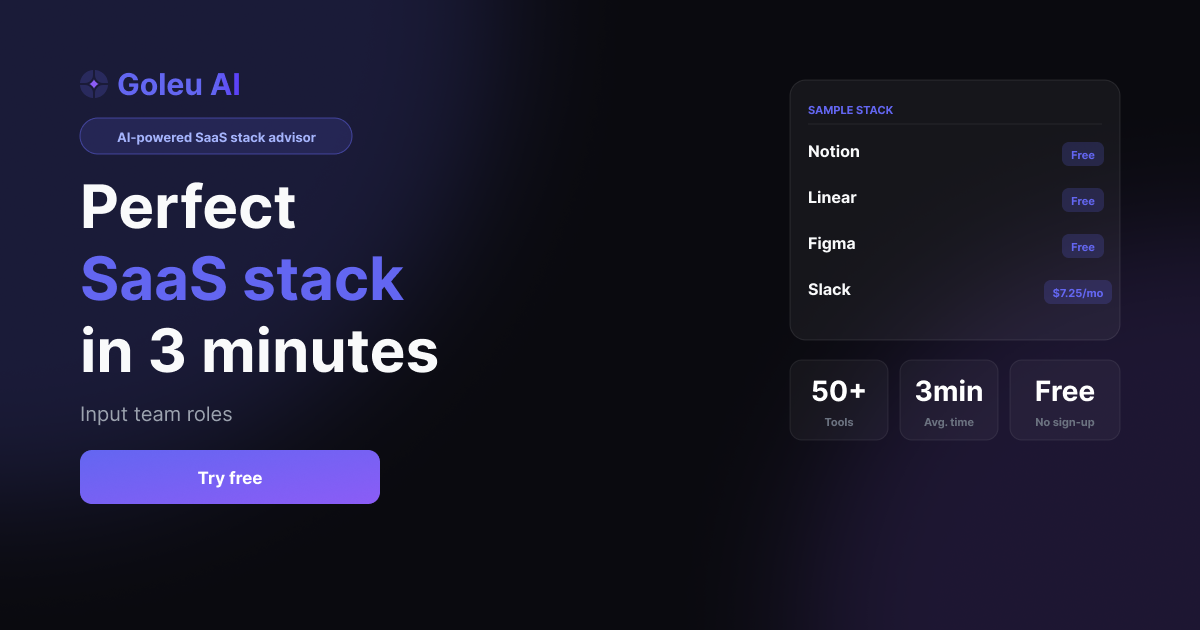
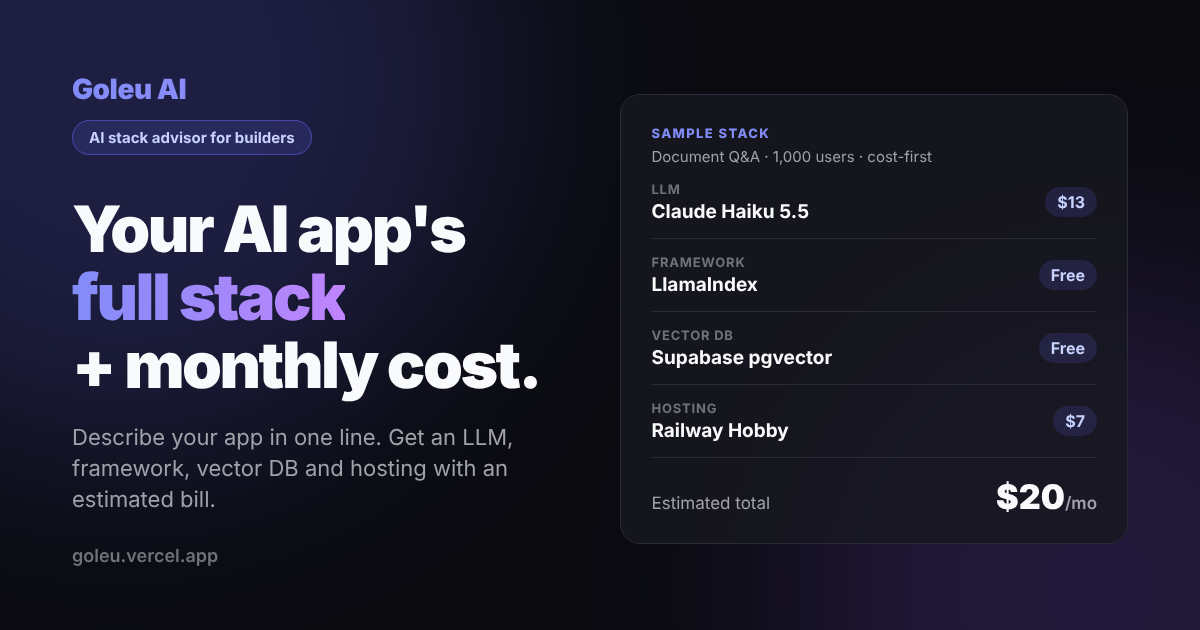
feat: LLM 비용 계산기 캐싱·결론·공유 링크, 페이지별 미리보기 이미지
- 모델별 캐시 읽기/쓰기 단가 추가, RAG·에이전트에 캐싱 입력 2개(반복 앞부분, 만료 비율)
- 하루 요청 수 아래 월 환산 문구 표시
- 표 위 결론 한 줄(전체·등급별 최저가)과 /build 바로가기, 조건 링크 복사
- 계산기 조건을 URL에 저장·복원, /build는 ?desc=&mau= 로 자동 추천
- Seo에 페이지별 og:image 지원, 계산기 전용 이미지 추가, 기본 이미지를 AI 빌더 스택용으로 교체
- llms.txt에서 레거시 팀 SaaS 퀴즈 제거

Claude-Session: https://claude.ai/code/session_015YZcKSeK5bbq6dktA5TLiD

diff --git a/golue_app/src/LlmCost.jsx b/golue_app/src/LlmCost.jsx
@@ -1,8 +1,8 @@
 // LLM API 월 비용 계산기 (/llm-cost): 요청 수 × 토큰 → 모델별 월 비용. 가격은 src/lib/ai-stack.js 한 곳에서 가져온다.
-import { useMemo, useState } from "react";
+import { useEffect, useMemo, useState } from "react";
 import { Link } from "react-router-dom";
-import { InputNumber, Segmented, Table, Tag } from "antd";
-import { PRICES, USE_CASES, effectivePrice } from "./lib/ai-stack.js";
+import { Button, InputNumber, Segmented, Slider, Table, Tag } from "antd";
+import { PRICES, USE_CASES, effectivePrice, inputRate } from "./lib/ai-stack.js";
 import { useLanguage } from "./lib/LanguageContext";
 import { trackEvent } from "./lib/analytics";
 
@@ -13,7 +13,14 @@ const T = {
     preset: "용도 프리셋", perDay: "하루 요청 수", inTok: "요청당 입력 토큰", outTok: "요청당 출력 토큰",
     model: "모델", tier: "등급", price: "가격 (입력/출력, 1M 토큰)", monthly: "월 비용",
     tiers: { economy: "저가", balanced: "균형", premium: "고가" },
-    note: (d) => `가격 기준일 ${d} · 각 사의 공식 가격 페이지 기준(표준 요금, 캐시·배치 할인 미반영) · 한 달은 30일로 계산`,
+    monthlyReq: (n, d) => `= 월 ${n.toLocaleString()}건 · 예: 사용자 ${d.toLocaleString()}명이 하루 1번씩 쓰는 경우`,
+    verdict: (c, b, p) => `이 조건에서 가장 싼 선택은 ${c}예요. 균형 등급 최저가는 ${b}, 고가 등급 최저가는 ${p}예요.`,
+    perMonth: (v) => `월 ${v}`,
+    toBuild: "이 조건으로 전체 스택 보기 →", copy: "이 조건 링크 복사", copied: "복사했어요",
+    cacheTitle: "프롬프트 캐싱", prefix: "입력 중 매번 반복되는 앞부분 (시스템 프롬프트·이전 대화)", expiry: "캐시가 만료돼 다시 쓰는 비율 (요청 간격이 캐시 유지 시간보다 길 때)",
+    cacheNote: "기본값은 이 용도의 가정입니다. 캐시 쓰기는 Anthropic만 입력가의 1.25배, OpenAI·Google은 입력가로 계산합니다.", cached: "캐시",
+    spread: (x) => `지금 조건에서 가장 비싼 모델은 가장 싼 모델의 ${x}배`,
+    note: (d) => `가격 기준일 ${d} · 각 사의 공식 가격 페이지 기준 표준 요금 · Gemini 캐시 저장료·배치 할인 미반영 · 한 달은 30일로 계산`,
     tierNote: "등급은 같은 회사 안의 가격 순서이며 품질 평가가 아닙니다.",
     ctaTitle: "모델만 정하면 끝이 아닙니다",
     ctaDesc: "벡터DB·프레임워크·배포까지 포함한 전체 스택과 월 비용을 받아 보세요.",
@@ -25,7 +32,14 @@ const T = {
     preset: "Preset", perDay: "Requests per day", inTok: "Input tokens / request", outTok: "Output tokens / request",
     model: "Model", tier: "Tier", price: "Price (in/out per 1M tokens)", monthly: "Monthly cost",
     tiers: { economy: "Economy", balanced: "Balanced", premium: "Premium" },
-    note: (d) => `Prices as of ${d} · official list prices (no caching or batch discounts) · 30-day month`,
+    monthlyReq: (n, d) => `= ${n.toLocaleString()} requests/month · e.g. ${d.toLocaleString()} users, once a day each`,
+    verdict: (c, b, p) => `Cheapest at these settings: ${c}. Cheapest balanced-tier: ${b}. Cheapest premium-tier: ${p}.`,
+    perMonth: (v) => `${v}/mo`,
+    toBuild: "See the full stack for these settings →", copy: "Copy link to these settings", copied: "Copied",
+    cacheTitle: "Prompt caching", prefix: "Share of input repeated every request (system prompt, prior turns)", expiry: "Share re-written after cache expiry (gap between requests > cache lifetime)",
+    cacheNote: "Defaults are assumptions for this use case. Cache writes: Anthropic at 1.25x input, OpenAI and Google at the input price.", cached: "cached",
+    spread: (x) => `At these settings the most expensive model costs ${x}x the cheapest`,
+    note: (d) => `Prices as of ${d} · official standard list prices · Gemini cache storage and batch discounts not included · 30-day month`,
     tierNote: "Tiers reflect price order within each provider, not a quality rating.",
     ctaTitle: "Picking a model is only step one",
     ctaDesc: "Get the full stack — vector DB, framework, hosting — with a monthly cost.",
@@ -35,6 +49,22 @@ const T = {
 
 const TIER_COLOR = { economy: "green", balanced: "blue", premium: "purple" };
 const noteText = (n, ko) => (!n ? "" : typeof n === "string" ? n : n[ko ? "ko" : "en"]);
+// /build 로 넘길 때 쓰는 용도별 한 줄 설명 (ai-stack.js 의 classify 키워드에 맞춤)
+const BUILD_DESC = {
+  chat: { ko: "고객 상담 챗봇", en: "customer support chatbot" },
+  rag: { ko: "사내 문서 검색 챗봇", en: "search internal docs and answer questions" },
+  agent: { ko: "업무 자동화 에이전트", en: "workflow automation agent" },
+  extract: { ko: "영수증 데이터 추출", en: "extract data from receipts" },
+  generate: { ko: "마케팅 콘텐츠 생성", en: "generate marketing content" },
+};
+const MAU_OPTIONS = [100, 1000, 10000, 100000];
+// 월 요청 수 ÷ 1인당 월 요청 수 → /build 의 사용자 수 선택지 중 가장 가까운 값(로그 스케일)
+const nearestMau = (users) => MAU_OPTIONS.reduce((best, v) =>
+  Math.abs(Math.log10(Math.max(users, 1) / v)) < Math.abs(Math.log10(Math.max(users, 1) / best)) ? v : best);
+const intParam = (q, k, max) => {
+  const n = Number(q.get(k));
+  return q.has(k) && Number.isFinite(n) && n >= 0 && n <= max ? Math.round(n) : null;
+};
 const usd = (n) => `$${n.toLocaleString(undefined, { maximumFractionDigits: n < 10 ? 2 : 0 })}`;
 
 export default function LlmCost() {
@@ -45,11 +75,62 @@ export default function LlmCost() {
   const [perDay, setPerDay] = useState(1000);
   const [inTok, setInTok] = useState(USE_CASES.chat.inTok);
   const [outTok, setOutTok] = useState(USE_CASES.chat.outTok);
+  const [prefix, setPrefix] = useState(0);
+  const [expiry, setExpiry] = useState(0);
+  const cacheOn = Boolean(USE_CASES[preset].cache);
+  const [urlReady, setUrlReady] = useState(false);
+  const [copied, setCopied] = useState(false);
+
+  // 공유 링크(?p=&d=&i=&o=&c=&e=)로 들어오면 그 조건을 복원한다. 프리렌더 HTML과 어긋나지 않게 마운트 후에 읽는다
+  useEffect(() => {
+    const q = new URLSearchParams(window.location.search);
+    const p = q.get("p");
+    if (p && USE_CASES[p]) {
+      setPreset(p);
+      setInTok(USE_CASES[p].inTok);
+      setOutTok(USE_CASES[p].outTok);
+      setPrefix(Math.round((USE_CASES[p].cache?.prefix || 0) * 100));
+      setExpiry(Math.round((USE_CASES[p].cache?.expiry || 0) * 100));
+    }
+    const d = intParam(q, "d", 1e9), i = intParam(q, "i", 2e6), o = intParam(q, "o", 2e6), c = intParam(q, "c", 100), e = intParam(q, "e", 100);
+    if (d !== null) setPerDay(d);
+    if (i !== null) setInTok(i);
+    if (o !== null) setOutTok(o);
+    if (c !== null) setPrefix(c);
+    if (e !== null) setExpiry(e);
+    if (p) trackEvent("llm_cost_shared_open", { preset: p });
+    setUrlReady(true);
+  }, []);
+
+  // 조건이 바뀔 때마다 주소에 반영 (새 기록을 쌓지 않음)
+  useEffect(() => {
+    if (!urlReady) return;
+    const q = new URLSearchParams({ p: preset, d: perDay || 0, i: inTok || 0, o: outTok || 0 });
+    if (cacheOn) { q.set("c", prefix); q.set("e", expiry); }
+    window.history.replaceState(window.history.state, "", `${window.location.pathname}?${q}`);
+  }, [urlReady, preset, perDay, inTok, outTok, cacheOn, prefix, expiry]);
+
+  const buildHref = `/build?${new URLSearchParams({
+    desc: BUILD_DESC[preset][ko ? "ko" : "en"],
+    mau: nearestMau(((perDay || 0) * 30) / USE_CASES[preset].reqPerUser),
+    from: "llm-cost",
+  })}`;
+
+  const copyLink = async () => {
+    try {
+      await navigator.clipboard.writeText(window.location.href);
+      setCopied(true);
+      setTimeout(() => setCopied(false), 2000);
+      trackEvent("llm_cost_copy_link", { preset });
+    } catch { /* 클립보드 권한이 없으면 주소창 복사로 대신한다 */ }
+  };
 
   const applyPreset = (key) => {
     setPreset(key);
     setInTok(USE_CASES[key].inTok);
     setOutTok(USE_CASES[key].outTok);
+    setPrefix(Math.round((USE_CASES[key].cache?.prefix || 0) * 100));
+    setExpiry(Math.round((USE_CASES[key].cache?.expiry || 0) * 100));
     trackEvent("llm_cost_preset", { preset: key });
   };
 
@@ -63,16 +144,25 @@ export default function LlmCost() {
         vendor: m.vendor,
         tier: m.tier,
         price: `$${m.input} / $${m.output}`,
+        cacheRead: m.cacheRead,
         note: m.note,
-        monthly: (monthlyReq * (inTok || 0) / 1e6) * m.input + (monthlyReq * (outTok || 0) / 1e6) * m.output,
+        monthly: (monthlyReq * (inTok || 0) / 1e6) * (cacheOn ? inputRate(m, prefix / 100, expiry / 100) : m.input) + (monthlyReq * (outTok || 0) / 1e6) * m.output,
       }))
       .sort((a, b) => a.monthly - b.monthly);
-  }, [perDay, inTok, outTok]);
+  }, [perDay, inTok, outTok, cacheOn, prefix, expiry]);
+
+  // 표 위 결론 한 줄: 전체 최저가(1% 이내 동률 포함), 균형·고가 등급 각각의 최저가. 품질 판단은 하지 않는다
+  const label = (r) => `${r.name} (${t.perMonth(usd(r.monthly))})`;
+  const cheapest = rows.filter((r) => r.monthly <= rows[0].monthly * 1.01);
+  const bestOf = (tier) => rows.find((r) => r.tier === tier);
+  const verdict = rows.length && bestOf("balanced") && bestOf("premium")
+    ? t.verdict(cheapest.map(label).join(" · "), label(bestOf("balanced")), label(bestOf("premium")))
+    : null;
 
   const columns = [
     { title: t.model, dataIndex: "name", render: (v, r) => <div><b>{v}</b><div style={{ fontSize: 12, color: "#888" }}>{r.vendor}{r.note ? ` · ${noteText(r.note, ko)}` : ""}</div></div> },
     { title: t.tier, dataIndex: "tier", render: (v) => <Tag color={TIER_COLOR[v]}>{t.tiers[v]}</Tag> },
-    { title: t.price, dataIndex: "price", responsive: ["sm"] },
+    { title: t.price, dataIndex: "price", responsive: ["sm"], render: (v, r) => <div>{v}{r.cacheRead != null && <div style={{ fontSize: 12, color: "#888" }}>{t.cached} ${r.cacheRead}</div>}</div> },
     { title: t.monthly, dataIndex: "monthly", align: "right", render: (v) => <b>{usd(v)}</b> },
   ];
 
@@ -93,7 +183,40 @@ export default function LlmCost() {
         <div><div style={field}>{t.outTok}</div><InputNumber style={{ width: "100%" }} min={0} step={100} value={outTok} onChange={setOutTok} /></div>
       </div>
 
-      <Table style={{ marginTop: 24 }} size="middle" pagination={false} columns={columns} dataSource={rows} />
+      <p style={{ fontSize: 13, color: "#666", marginTop: 8 }}>{t.monthlyReq((perDay || 0) * 30, perDay || 0)}</p>
+
+      {cacheOn && (
+        <div style={{ marginTop: 16, padding: "14px 16px 6px", borderRadius: 10, background: "#fafafa", border: "1px solid #eee" }}>
+          <div style={{ fontWeight: 700, marginBottom: 8 }}>{t.cacheTitle}</div>
+          <div style={field}>{t.prefix}: <b>{prefix}%</b></div>
+          <Slider min={0} max={100} step={10} value={prefix} onChange={setPrefix}
+            onChangeComplete={(v) => trackEvent("llm_cost_cache", { preset, prefix: v, expiry })}
+            tooltip={{ formatter: (v) => `${v}%` }} />
+          <div style={field}>{t.expiry}: <b>{expiry}%</b></div>
+          <Slider min={0} max={100} step={10} value={expiry} onChange={setExpiry}
+            onChangeComplete={(v) => trackEvent("llm_cost_cache", { preset, prefix, expiry: v })}
+            tooltip={{ formatter: (v) => `${v}%` }} />
+          <p style={{ fontSize: 12, color: "#888" }}>{t.cacheNote}</p>
+        </div>
+      )}
+
+      {rows.length > 1 && rows[0].monthly > 0 && (
+        <p style={{ marginTop: 8, fontWeight: 600 }}>{t.spread(Math.round(rows[rows.length - 1].monthly / rows[0].monthly))}</p>
+      )}
+
+      {verdict && (
+        <div style={{ marginTop: 16, padding: "16px 18px", borderRadius: 12, background: "#f5f3ff", border: "1px solid #e4e0ff" }}>
+          <div style={{ fontWeight: 600, lineHeight: 1.5 }}>{verdict}</div>
+          <div style={{ display: "flex", gap: 8, flexWrap: "wrap", marginTop: 12 }}>
+            <Link to={buildHref} onClick={() => trackEvent("funnel_to_goleu", { from: "llm-cost-verdict", preset })}>
+              <Button type="primary">{t.toBuild}</Button>
+            </Link>
+            <Button onClick={copyLink}>{copied ? t.copied : t.copy}</Button>
+          </div>
+        </div>
+      )}
+
+      <Table style={{ marginTop: 16 }} size="middle" pagination={false} columns={columns} dataSource={rows} />
 
       <p style={{ fontSize: 12, color: "#888", marginTop: 12 }}>{t.note(PRICES.asOf)}</p>
       <p style={{ fontSize: 12, color: "#888" }}>{t.tierNote}</p>
@@ -101,7 +224,7 @@ export default function LlmCost() {
       <div style={{ marginTop: 32, padding: 24, borderRadius: 12, background: "#f5f3ff" }}>
         <div style={{ fontWeight: 700, fontSize: 18 }}>{t.ctaTitle}</div>
         <p style={{ color: "#555", margin: "6px 0 14px" }}>{t.ctaDesc}</p>
-        <Link to="/build" onClick={() => trackEvent("funnel_to_goleu", { from: "llm-cost" })} style={{ fontWeight: 700 }}>{t.cta}</Link>
+        <Link to={buildHref} onClick={() => trackEvent("funnel_to_goleu", { from: "llm-cost", preset })} style={{ fontWeight: 700 }}>{t.cta}</Link>
       </div>
     </div>
   );

diff --git a/golue_app/src/lib/ai-stack.js b/golue_app/src/lib/ai-stack.js
@@ -27,14 +27,17 @@ export const PRICES = {
     railway: "https://docs.railway.com/pricing",
   },
   // USD / 1M tokens. tier 는 같은 회사 안의 가격 순서 기준(품질 평가가 아님).
+  // cacheRead = 캐시 적중 입력 단가, cacheWrite = 캐시 쓰기 단가(2026-11-23 확인).
+  // cacheWrite 가 없는 모델(OpenAI 자동 캐싱, Gemini 암시적 캐싱)은 쓰기 할증 없이 입력 단가로 계산. Gemini 캐시 저장료는 미반영.
+  // gpt-6-luna 의 cacheRead 는 공식 페이지 Flex 표($0.005, Standard의 절반)에서 역산한 값.
   llms: [
-    { id: "claude-haiku-5.5", name: "Claude Haiku 5.5", vendor: "Anthropic", tier: "economy", input: 0.10, output: 0.50, note: { ko: "프롬프트 10만 토큰 이하 기준", en: "for prompts up to 100K tokens" }, src: "anthropic", affiliate: null },
-    { id: "gpt-6-luna", name: "GPT-6 Luna", vendor: "OpenAI", tier: "economy", input: 0.10, output: 0.50, src: "openai", affiliate: null },
-    { id: "gpt-6.1-terra", name: "GPT-6.1 Terra", vendor: "OpenAI", tier: "balanced", input: 1.00, output: 5.00, src: "openai", affiliate: null },
-    { id: "gemini-3.7-flash", name: "Gemini 3.7 Flash", vendor: "Google", tier: "balanced", input: 0.75, output: 3.75, until: "2026-12-31", after: { input: 1.50, output: 7.50 }, note: { ko: "2026-12-31까지 할인가, 2027-01-01부터 $1.50 / $7.50", en: "promo price through 2026-12-31, then $1.50 / $7.50" }, src: "google", affiliate: null },
-    { id: "claude-sonnet-5.5", name: "Claude Sonnet 5.5", vendor: "Anthropic", tier: "balanced", input: 2.00, output: 10.00, src: "anthropic", affiliate: null },
-    { id: "claude-opus-5.5", name: "Claude Opus 5.5", vendor: "Anthropic", tier: "premium", input: 4.00, output: 20.00, src: "anthropic", affiliate: null },
-    { id: "gpt-6.2-astra", name: "GPT-6.2 Astra", vendor: "OpenAI", tier: "premium", input: 8.00, output: 40.00, src: "openai", affiliate: null },
+    { id: "claude-haiku-5.5", name: "Claude Haiku 5.5", vendor: "Anthropic", tier: "economy", input: 0.10, output: 0.50, cacheRead: 0.01, cacheWrite: 0.125, note: { ko: "프롬프트 10만 토큰 이하 기준", en: "for prompts up to 100K tokens" }, src: "anthropic", affiliate: null },
+    { id: "gpt-6-luna", name: "GPT-6 Luna", vendor: "OpenAI", tier: "economy", input: 0.10, output: 0.50, cacheRead: 0.01, src: "openai", affiliate: null },
+    { id: "gpt-6.1-terra", name: "GPT-6.1 Terra", vendor: "OpenAI", tier: "balanced", input: 1.00, output: 5.00, cacheRead: 0.05, src: "openai", affiliate: null },
+    { id: "gemini-3.7-flash", name: "Gemini 3.7 Flash", vendor: "Google", tier: "balanced", input: 0.75, output: 3.75, cacheRead: 0.075, until: "2026-12-31", after: { input: 1.50, output: 7.50, cacheRead: 0.15 }, note: { ko: "2026-12-31까지 할인가, 2027-01-01부터 $1.50 / $7.50", en: "promo price through 2026-12-31, then $1.50 / $7.50" }, src: "google", affiliate: null },
+    { id: "claude-sonnet-5.5", name: "Claude Sonnet 5.5", vendor: "Anthropic", tier: "balanced", input: 2.00, output: 10.00, cacheRead: 0.10, cacheWrite: 2.50, src: "anthropic", affiliate: null },
+    { id: "claude-opus-5.5", name: "Claude Opus 5.5", vendor: "Anthropic", tier: "premium", input: 4.00, output: 20.00, cacheRead: 0.20, cacheWrite: 5.00, src: "anthropic", affiliate: null },
+    { id: "gpt-6.2-astra", name: "GPT-6.2 Astra", vendor: "OpenAI", tier: "premium", input: 8.00, output: 40.00, cacheRead: 0.40, src: "openai", affiliate: null },
   ],
   vectorDbs: {
     supabaseFree: { name: "Supabase pgvector (Free)", monthly: 0, note: { ko: "DB 500MB, 7일 미사용 시 일시정지", en: "500MB DB, pauses after 7 idle days" }, src: "supabase", affiliate: null },
@@ -51,10 +54,11 @@ export const PRICES = {
 };
 
 // 용도별 요청 1건당 토큰과 사용자 1명의 월 요청 수 (가정. 결과 화면에 그대로 보여준다)
+// cache: 계산기(/llm-cost)의 캐싱 기본값(가정). 반복 앞부분이 큰 RAG·에이전트에만 둔다
 export const USE_CASES = {
   chat:     { label: { ko: "챗봇·상담", en: "Chatbot / support" },        inTok: 1500,  outTok: 400,  reqPerUser: 20, framework: { python: "FastAPI + official SDK", typescript: "Vercel AI SDK" } },
-  rag:      { label: { ko: "문서 검색(RAG)", en: "Document Q&A (RAG)" },   inTok: 4000,  outTok: 500,  reqPerUser: 20, framework: { python: "LlamaIndex", typescript: "LlamaIndex.TS" } },
-  agent:    { label: { ko: "업무 자동화 에이전트", en: "Task agent" },     inTok: 12000, outTok: 1500, reqPerUser: 10, framework: { python: "LangGraph", typescript: "LangGraph.js" } },
+  rag:      { label: { ko: "문서 검색(RAG)", en: "Document Q&A (RAG)" },   inTok: 4000,  outTok: 500,  reqPerUser: 20, cache: { prefix: 0.3, expiry: 0.5 }, framework: { python: "LlamaIndex", typescript: "LlamaIndex.TS" } },
+  agent:    { label: { ko: "업무 자동화 에이전트", en: "Task agent" },     inTok: 12000, outTok: 1500, reqPerUser: 10, cache: { prefix: 0.8, expiry: 0.1 }, framework: { python: "LangGraph", typescript: "LangGraph.js" } },
   extract:  { label: { ko: "데이터 추출·분류", en: "Extraction / classification" }, inTok: 3000, outTok: 600, reqPerUser: 30, framework: { python: "Official SDK + Pydantic structured output", typescript: "Vercel AI SDK (generateObject)" } },
   generate: { label: { ko: "콘텐츠 생성", en: "Content generation" },      inTok: 800,   outTok: 1200, reqPerUser: 15, framework: { python: "FastAPI + official SDK", typescript: "Vercel AI SDK" } },
 };
@@ -81,8 +85,17 @@ const round = (n) => Math.round(n * 100) / 100;
 
 // 할인가 기간이 끝난 모델은 이후 가격으로 계산한다
 export function effectivePrice(model, today = new Date().toISOString().slice(0, 10)) {
-  if (model.until && model.after && today > model.until) return { ...model, input: model.after.input, output: model.after.output, note: null };
+  if (model.until && model.after && today > model.until) return { ...model, input: model.after.input, output: model.after.output, cacheRead: model.after.cacheRead ?? model.cacheRead, note: null };
   return model;
+}
+
+// 요청당 입력 1M 토큰의 실효 단가.
+// prefix(0~1): 입력 중 매 요청 반복되는 앞부분(시스템 프롬프트·이전 대화) 비율 → 캐시 대상
+// expiry(0~1): 그 앞부분이 캐시 만료로 다시 쓰이는 비율(요청 간격 > 캐시 유지 시간, 첫 요청 포함)
+export function inputRate(model, prefix = 0, expiry = 0) {
+  if (model.cacheRead == null || !prefix) return model.input;
+  const write = model.cacheWrite ?? model.input;
+  return (1 - prefix) * model.input + prefix * ((1 - expiry) * model.cacheRead + expiry * write);
 }
 
 function llmCost(model, requests, uc) {

diff --git a/golue_app/src/BuildStack.jsx b/golue_app/src/BuildStack.jsx
@@ -1,5 +1,5 @@
 // AI 빌더 스택 추천 (/build): 한 줄 설명 + 규모 + 우선순위 → Worker /ai-stack
-import { useState } from "react";
+import { useEffect, useState } from "react";
 import { Button, Input, Segmented, Card, Alert, Tag } from "antd";
 import { useLanguage } from "./lib/LanguageContext";
 import { trackEvent } from "./lib/analytics";
@@ -70,8 +70,10 @@ export default function BuildStack() {
   const [error, setError] = useState("");
   const [loading, setLoading] = useState(false);
 
-  async function submit() {
-    if (!description.trim()) { setError(t.empty); return; }
+  // over: 상태 갱신을 기다리지 않고 바로 보낼 값 (링크로 들어온 경우)
+  async function submit(over = {}) {
+    const v = { description, mau, priority, language, ...over };
+    if (!v.description.trim()) { setError(t.empty); return; }
     const base = resolveWorkerUrl();
     if (!base) { setError(t.error); return; }
     setLoading(true); setError("");
@@ -79,18 +81,32 @@ export default function BuildStack() {
       const res = await fetch(`${base}/ai-stack`, {
         method: "POST",
         headers: { "Content-Type": "application/json" },
-        body: JSON.stringify({ description, mau, priority, language, lang: lang === "ko" ? "ko" : "en" }),
+        body: JSON.stringify({ description: v.description, mau: v.mau, priority: v.priority, language: v.language, lang: lang === "ko" ? "ko" : "en" }),
       });
       if (!res.ok) throw new Error(String(res.status));
       const data = await res.json();
       setResult(data);
-      trackEvent("ai_stack_recommended", { use_case: data.useCase.id, mau, priority, language, total_usd: data.cost.total });
+      trackEvent("ai_stack_recommended", { use_case: data.useCase.id, mau: v.mau, priority: v.priority, language: v.language, total_usd: data.cost.total, from: over.from || "" });
     } catch {
       setError(t.error);
     } finally {
       setLoading(false);
     }
   }
+
+  // 계산기 등에서 ?desc=&mau=&from= 으로 넘어오면 채워 넣고 바로 추천을 받는다
+  useEffect(() => {
+    const q = new URLSearchParams(window.location.search);
+    const desc = (q.get("desc") || "").slice(0, 300);
+    if (!desc.trim()) return;
+    const m = Number(q.get("mau"));
+    const v = { description: desc, from: q.get("from") || "link" };
+    if ([100, 1000, 10000, 100000].includes(m)) v.mau = m;
+    setDescription(v.description);
+    if (v.mau) setMau(v.mau);
+    submit(v);
+    // eslint-disable-next-line react-hooks/exhaustive-deps
+  }, []);
 
   const link = (item) => item?.affiliate || null;
 
@@ -110,7 +126,7 @@ export default function BuildStack() {
       <div style={{ marginTop: 12, fontSize: 13, color: "#555" }}>{t.language}</div>
       <Segmented block value={language} onChange={setLanguage} options={[{ label: "Python", value: "python" }, { label: "TypeScript", value: "typescript" }]} />
 
-      <Button type="primary" size="large" block style={{ marginTop: 20 }} loading={loading} onClick={submit}>{loading ? t.loading : t.go}</Button>
+      <Button type="primary" size="large" block style={{ marginTop: 20 }} loading={loading} onClick={() => submit()}>{loading ? t.loading : t.go}</Button>
 
       {error && <Alert style={{ marginTop: 16 }} type="error" message={error} showIcon />}
 

diff --git a/golue_app/src/components/Seo.jsx b/golue_app/src/components/Seo.jsx
@@ -7,9 +7,11 @@ import { SITE_URL } from "../lib/site";
  * - 흐름 페이지: noindex (canonical 생략)
  * - jsonLd: 객체 배열 → <script type="application/ld+json">
  * - lang: 본문 언어 (개인정보처리방침/약관은 현재 한국어 본문만 있어 "ko")
+ * - image: 링크 미리보기 이미지(public/ 기준 경로, 1200×630). 프리렌더 시 index.html 의 기본값보다 앞에 들어가 우선 적용된다
  */
-export default function Seo({ title, description, path = "/", noindex = false, jsonLd = [], lang = "en" }) {
+export default function Seo({ title, description, path = "/", noindex = false, jsonLd = [], lang = "en", image = "/og-image.png" }) {
   const url = `${SITE_URL}${path}`;
+  const imageUrl = `${SITE_URL}${image}`;
   return (
     <Head>
       <html lang={lang} />
@@ -18,6 +20,8 @@ export default function Seo({ title, description, path = "/", noindex = false, j
       {description && <meta property="og:description" content={description} />}
       <meta property="og:title" content={title} />
       <meta name="twitter:title" content={title} />
+      <meta property="og:image" content={imageUrl} />
+      <meta name="twitter:image" content={imageUrl} />
       {description && <meta name="twitter:description" content={description} />}
       {noindex && <meta name="robots" content="noindex" />}
       {!noindex && <link rel="canonical" href={url} />}

diff --git a/golue_app/src/RouteElements.jsx b/golue_app/src/RouteElements.jsx
@@ -174,6 +174,7 @@ export function LlmCostRoute() {
         title="LLM API monthly cost calculator — Goleu AI"
         description="Compare the monthly cost of OpenAI, Anthropic and Google models from your daily requests and tokens per request. Official list prices with the date checked."
         path="/llm-cost"
+        image="/og-llm-cost.png"
       />
       <LlmCost />
     </>
